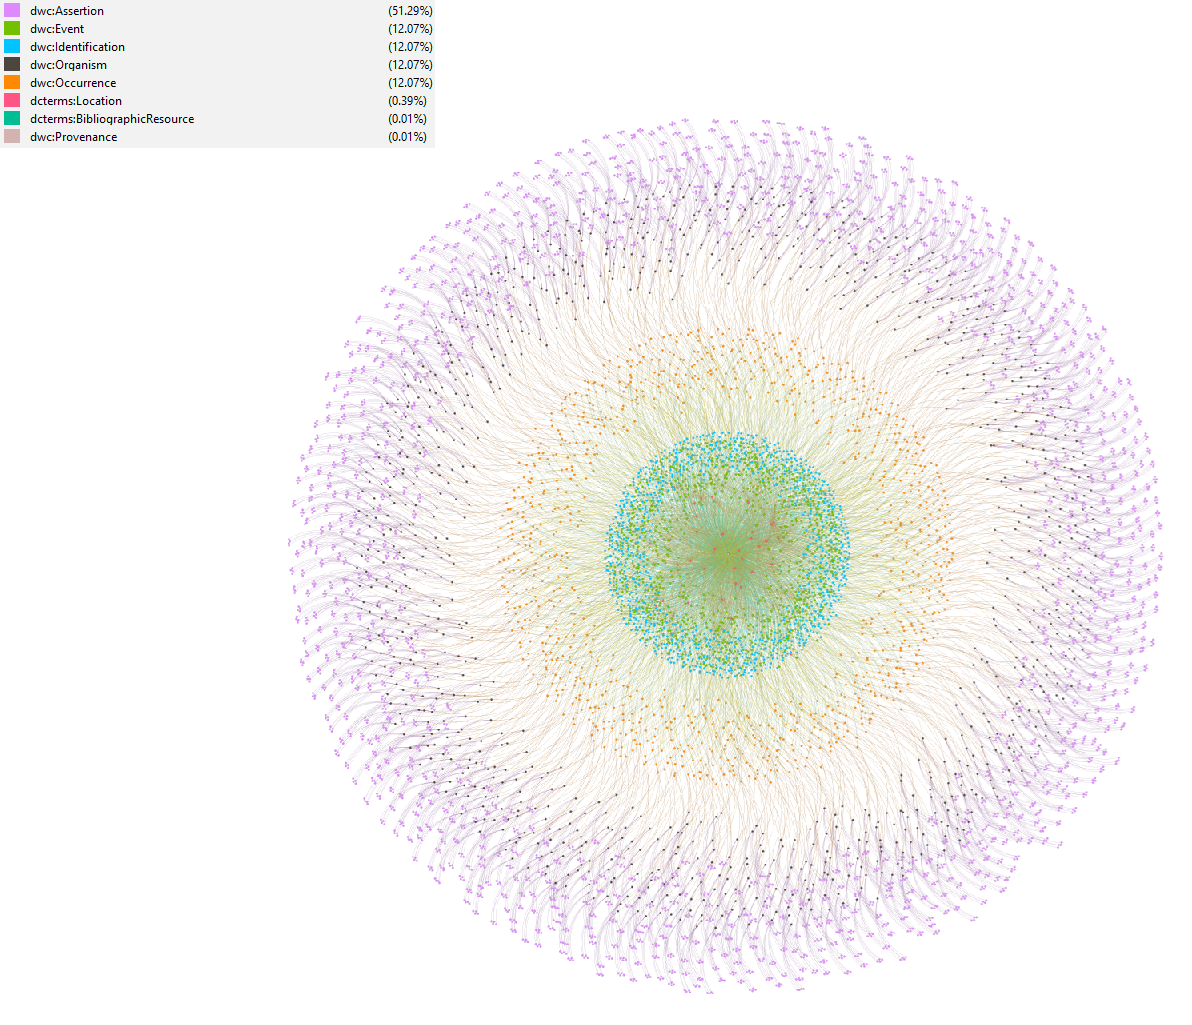
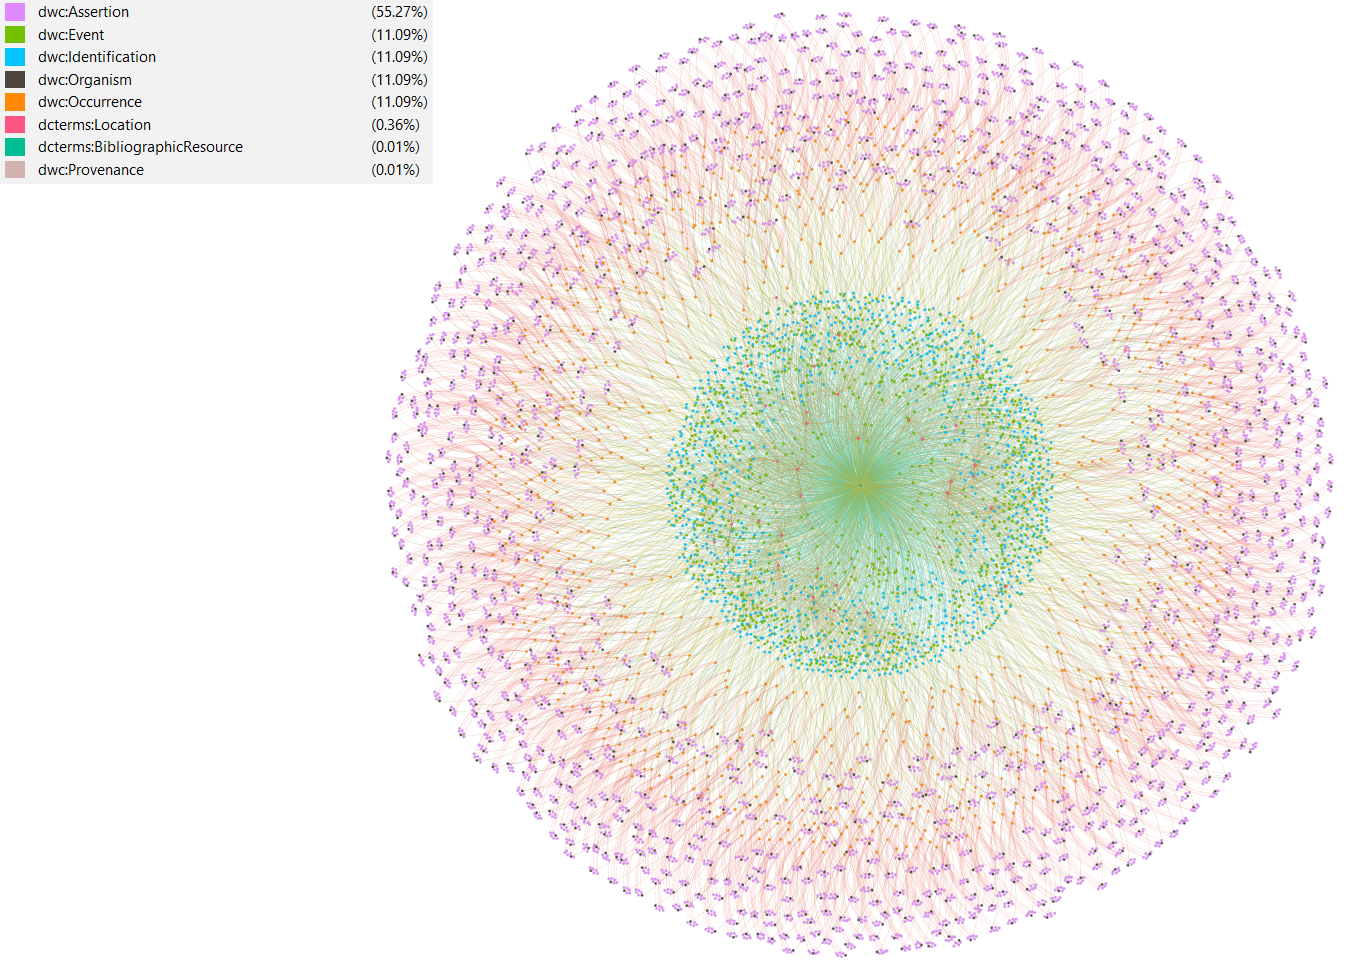
move dwc:OrganismAssertions to dwc:OccurrenceAssertions for Lake Mburo rodent dataset

diff --git a/README.md b/README.md
@@ -732,7 +732,7 @@ One could create a dummy URL such as http://bioboum.ca/media/hnk-c0czq-jlf06-ima
 
 - **Dataset organization**: The dataset, as a Darwin Core Archive can be downloaded [from GBIF](https://www.gbif.org/dataset/9e54a9c3-98cf-438d-bdf2-89358b647ffa). The archive contains an `occurrence.txt` table that records each rodent capture and an `extendedmeasurementorfact.txt` table that records each measurement taken on the individual rodents.
 
-- **Ontology subset considered**: The relationships between classes in this dataset are relatively straightforward. Every captured rodent is modelled as a dwc:Occurrence of a `dwc:Organism`. Every measurement was modelled as a `dwc:Assertion` targeting the individual rodent.
+- **Ontology subset considered**: The relationships between classes in this dataset are relatively straightforward. Every captured rodent is modelled as a dwc:Occurrence of a `dwc:Organism`. Every measurement was modelled as a `dwc:Assertion` targeting the individual rodent's occurrence.
 
   Each rodent capture represents a separate `dwc:Event`. However, as traps were left at the same spot, all captures in that trap share the same `dcterms:Location`.
 
@@ -790,10 +790,7 @@ As a starting point, the following SPARQL query returns all body masses in the d
            dwc:assertionTypeIRI <http://purl.obolibrary.org/obo/OBA_VT0001259> ;
            dwc:assertionUnitIRI <http://purl.obolibrary.org/obo/UO_0000021> ;
            dwc:assertionValueNumeric ?bodyMass ;
-           dwcdp:about ?org .
-
-    ?org a dwc:Organism ;
-         ^dwcdp:occurrenceOf ?occ .
+           dwcdp:about ?occ .
 
     ?occ a dwc:Occurrence ;
          dwcdp:happenedDuring ?event .
@@ -803,8 +800,6 @@ As a starting point, the following SPARQL query returns all body masses in the d
            dwc:scientificName ?species .
   }
 ```
-
-  Note the addition of the `dwcdp:` prefix to reference object properties and the use of the inverse property `^dwcdp:occurrenceOf` to navigate from a `dwc:Organism` to its `dwc:Occurrence`. Equivalent formulations include moving the `dwcdp:occurrenceOf` triple into the occurrence block (and keeping the original directionality as `?occ dwcdp:occurrenceOf ?org`) or defining explicit inverse properties (as in Darwin-SW, which uses the pair `dsw:occurrenceOf` and `dsw:hasOccurrence`). Each option has merits and requires further discussion.
 
   Finally, the SPARQL query can be expanded to compute the average body mass and the number of observations within each treatment group. This requires aggregate functions `AVG()` and `COUNT()` to get the values, as well `GROUP BY` and `ORDER BY` to arrange results. The following query computes these values for the two most frequent species, Kaiser's rock rat (*Aethomys kaiseri*) and the African pygmy mouse (*Mus minutoides*):
 
@@ -820,10 +815,7 @@ As a starting point, the following SPARQL query returns all body masses in the d
            dwc:assertionTypeIRI <http://purl.obolibrary.org/obo/OBA_VT0001259> ;
            dwc:assertionUnitIRI <http://purl.obolibrary.org/obo/UO_0000021> ;
            dwc:assertionValueNumeric ?bodyMass ;
-           dwcdp:about ?org .
-
-    ?org a dwc:Organism ;
-         ^dwcdp:occurrenceOf ?occ .
+           dwcdp:about ?occ .
 
     VALUES ?species { "Aethomys kaiseri" "Mus minutoides" }
 
